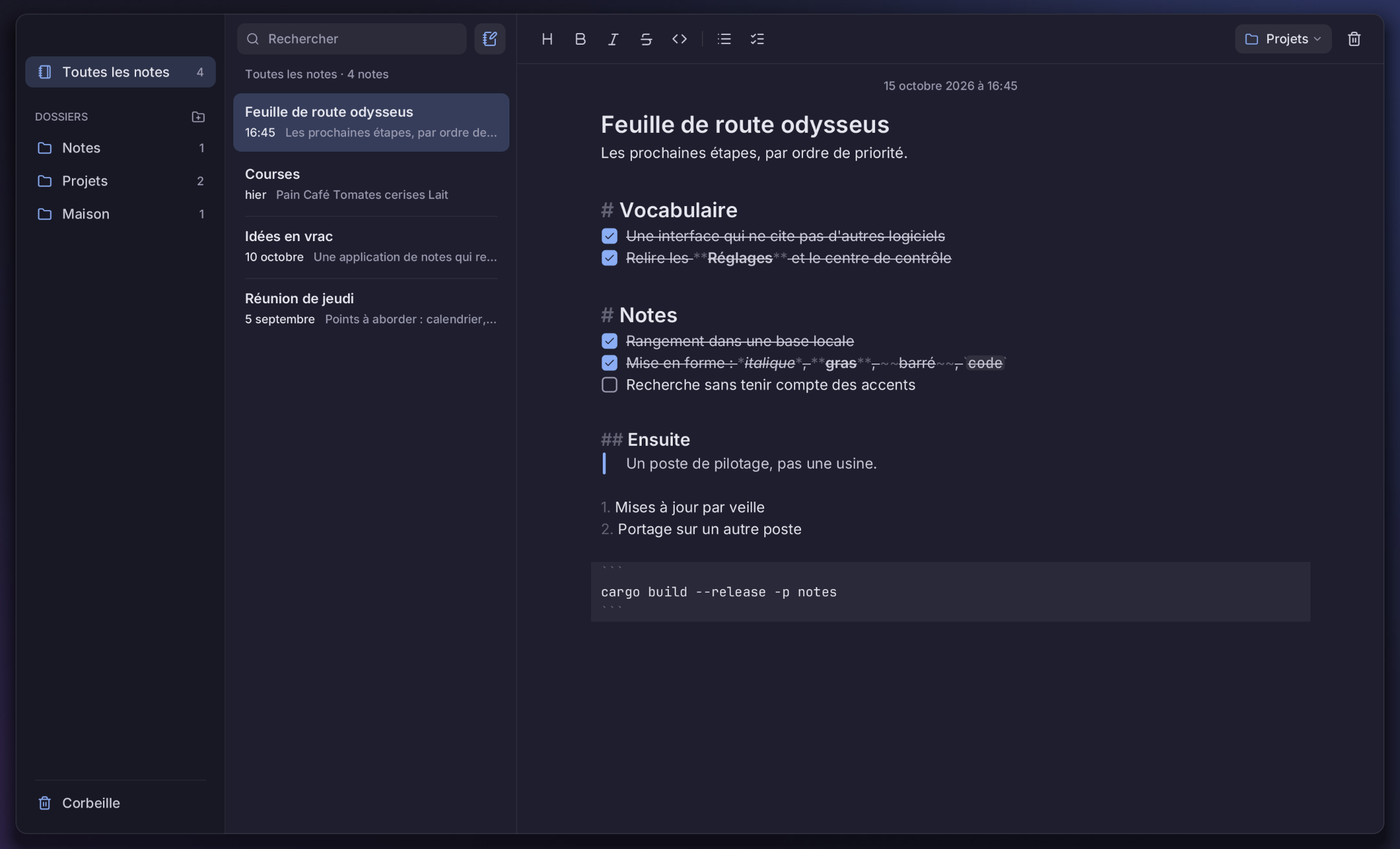
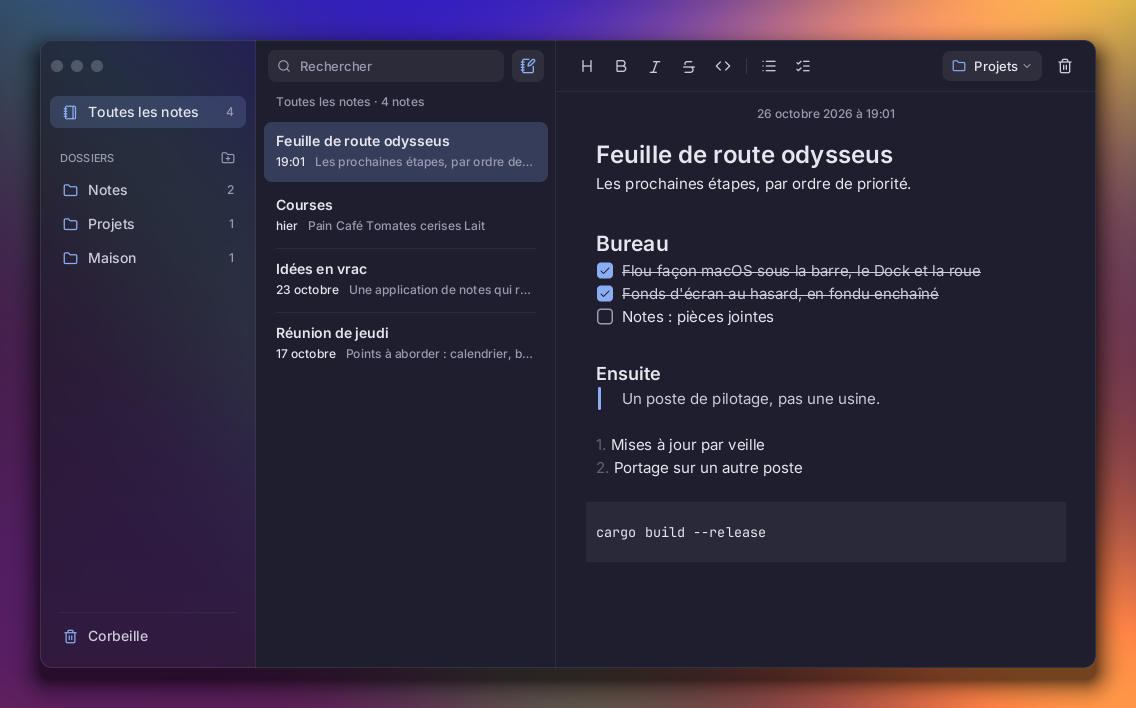
README : toutes les captures refaites sur le compositeur
Fichiers, Notes, Réglages, Automatismes, Moniteur, Raccourcis, Aperçu,
Assistant, Trousseau, centres de contrôle et de notifications, thèmes et
verrou, pris sur le compositeur imbriqué avec le flou et la transparence ;
données de démonstration (banc-donnees, notes et automatismes d'exemple),
fond généré par ffmpeg. Le partage d'écran garde sa capture : ses
vignettes ne se font que sur l'écran réel.

Claude-Session: https://claude.ai/code/session_01MrKJ5RoiFoHm7qLZhYo5pA

diff --git a/README.md b/README.md
@@ -55,7 +55,7 @@ Bureau Wayland personnel en Rust : rapide, sobre.
 |---|---|
 | ![Roue](docs/captures/roue.png) | ![Transparence](docs/captures/transparence.png) |
 
-| Réglages : fond d'écran, et six autres pages |
+| Réglages : fond d'écran, et quatorze autres pages |
 |---|
 | ![Réglages](docs/captures/reglages.png) |
 
